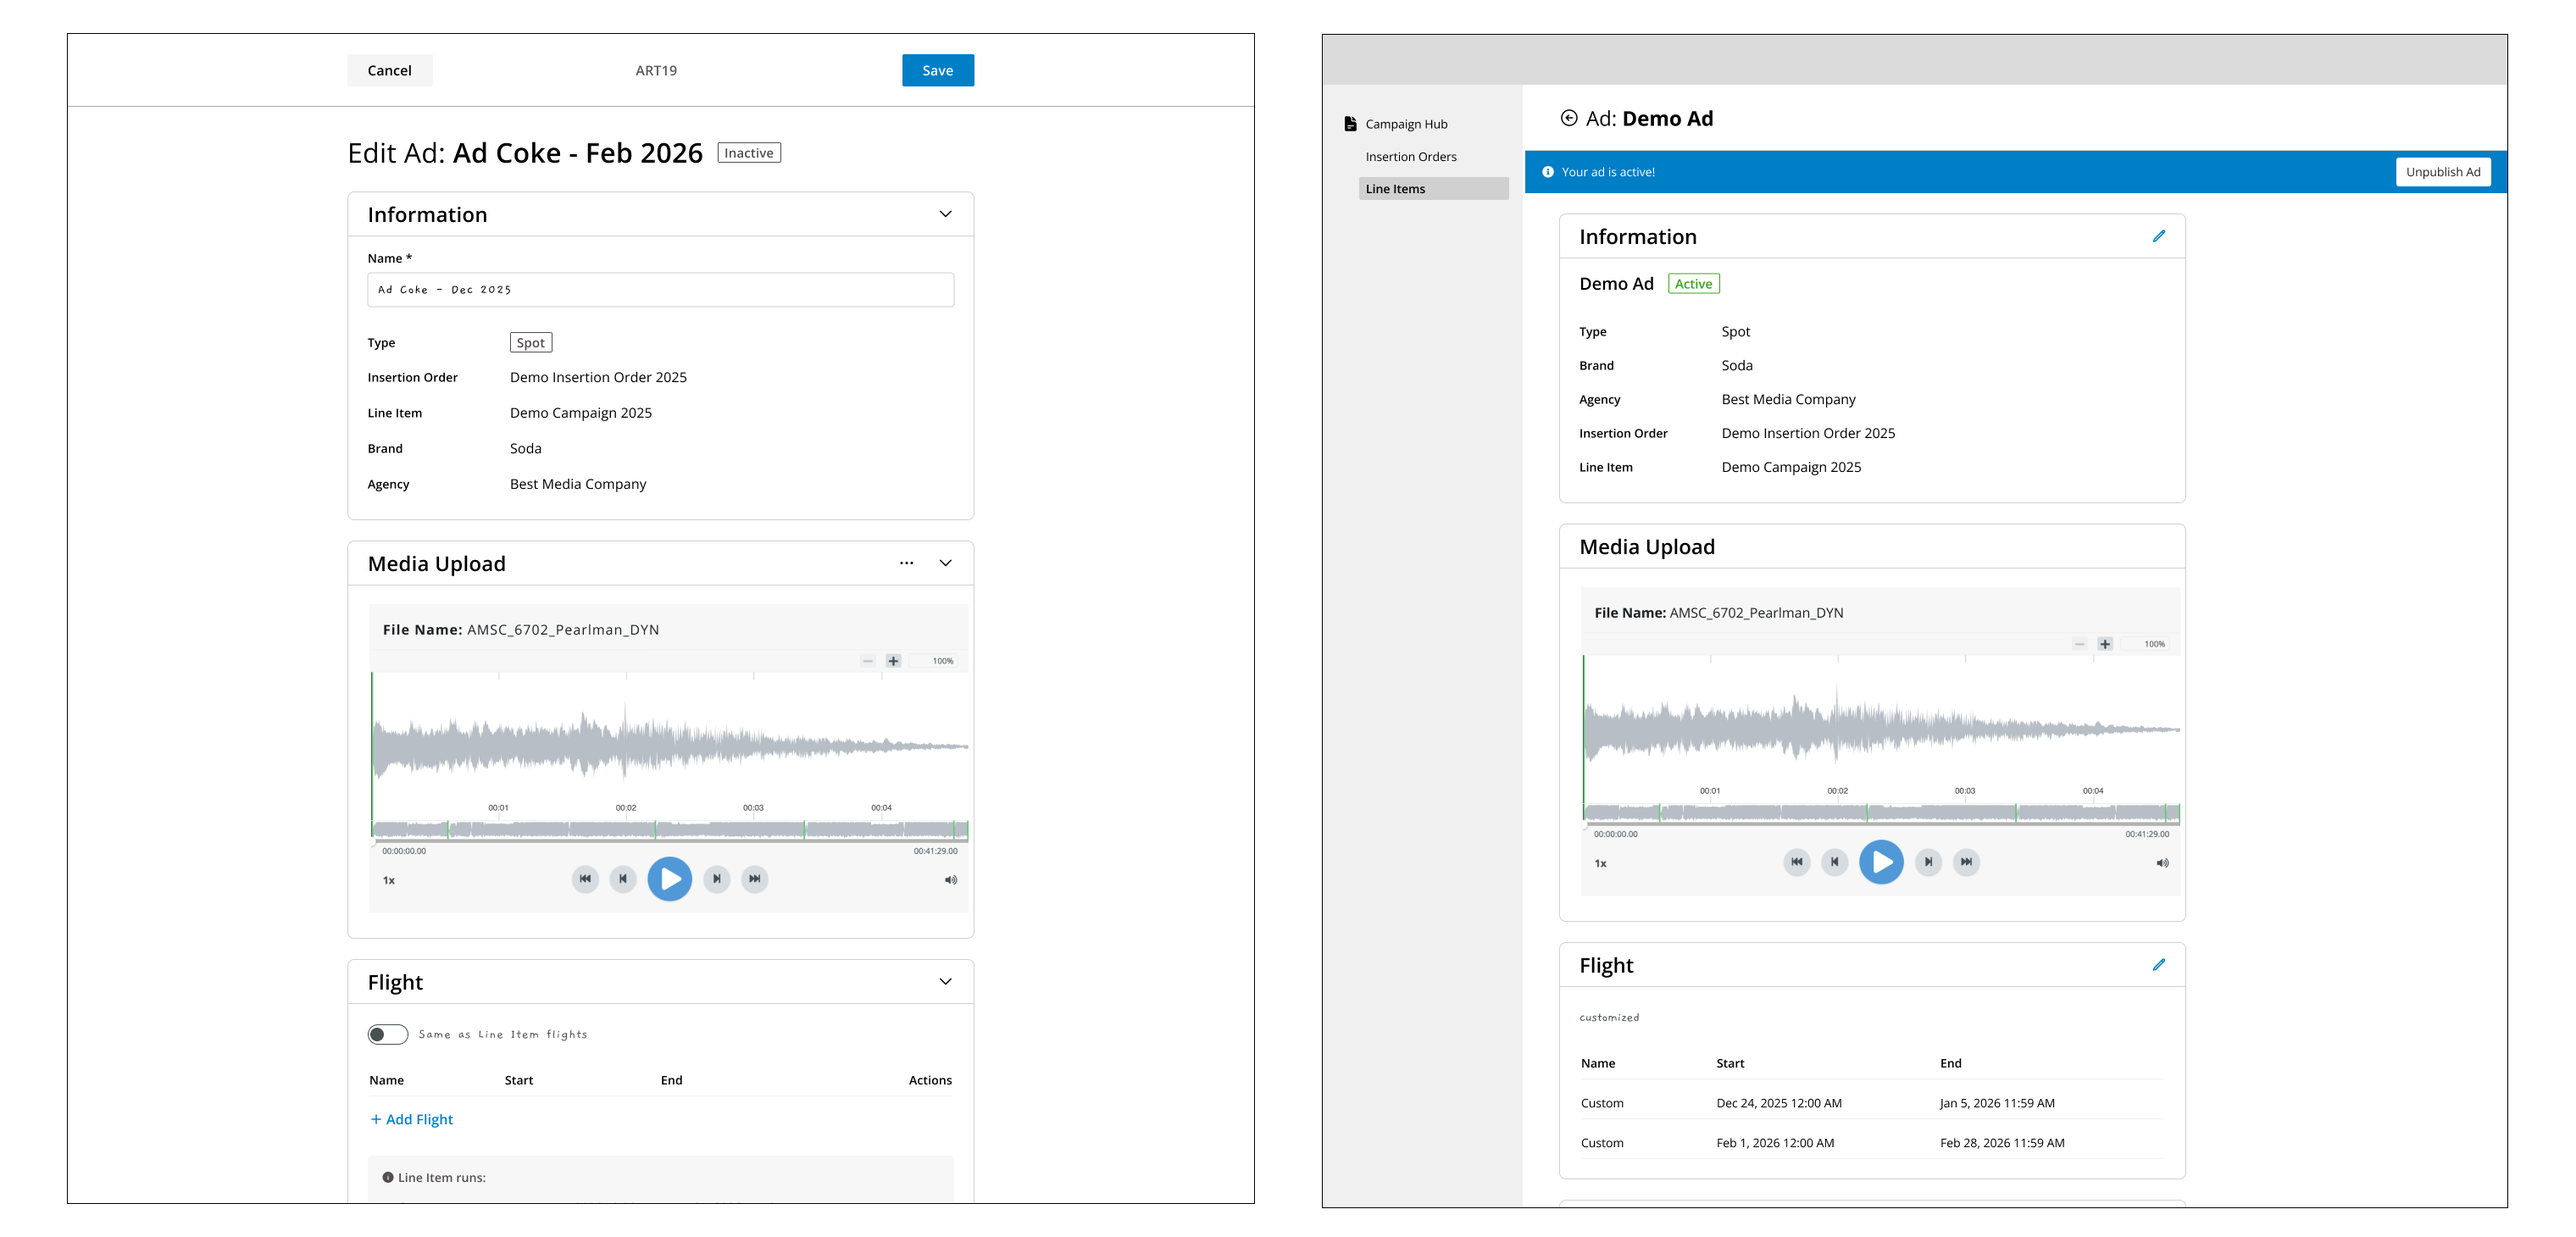
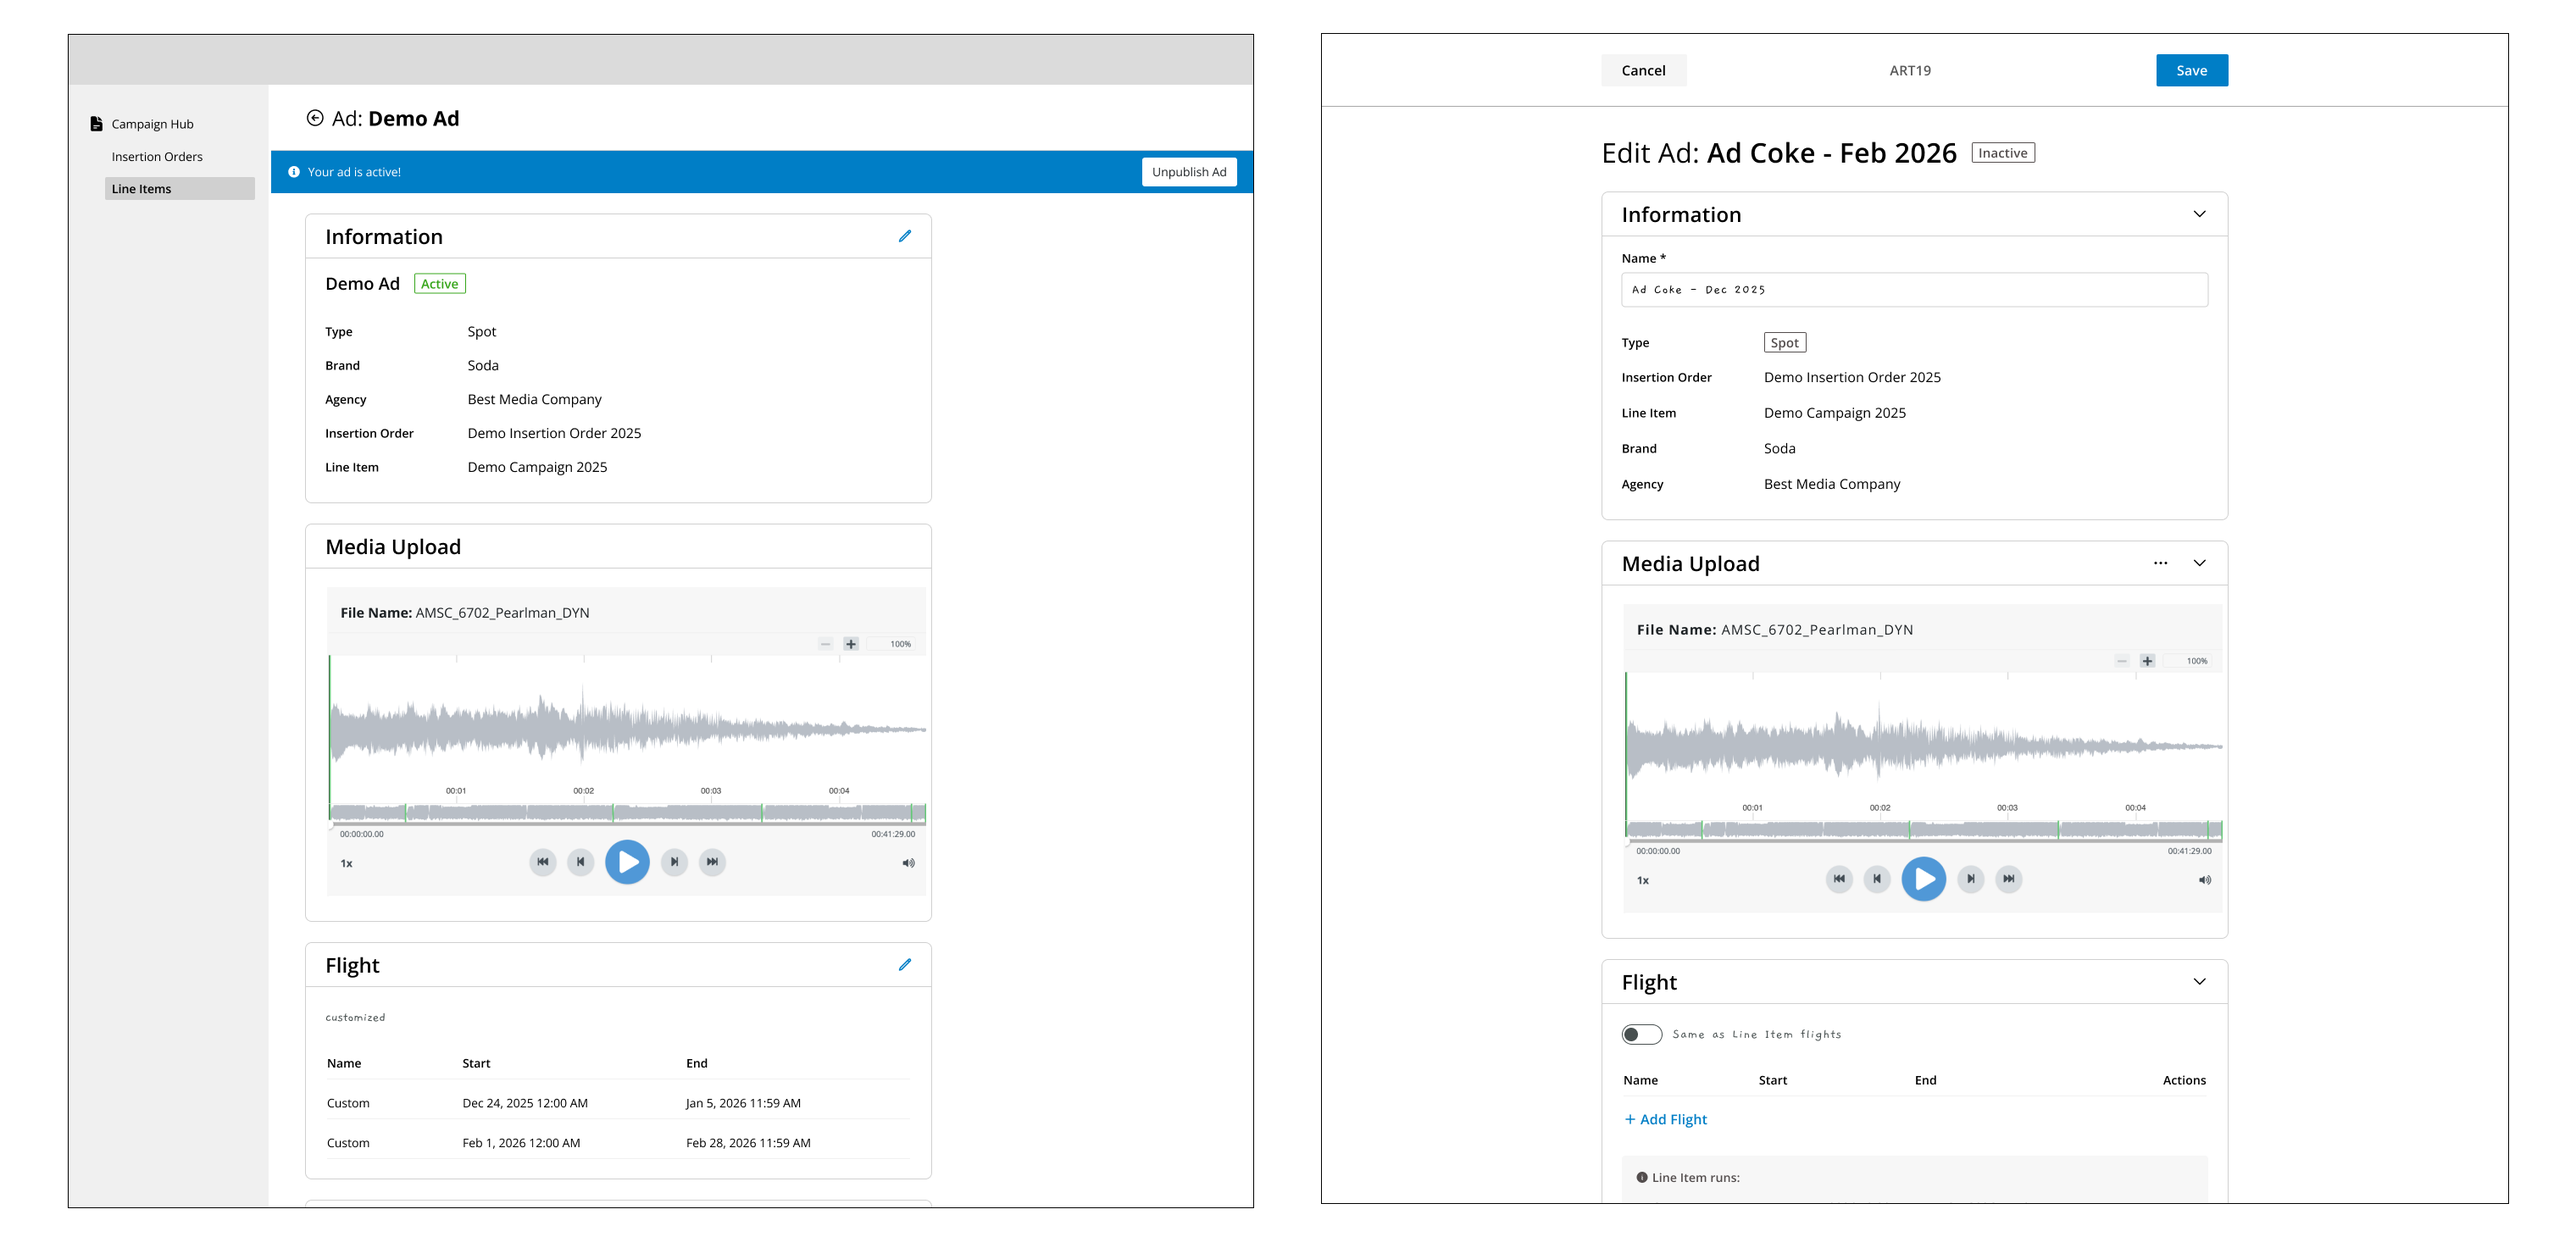
Refine One Page Creation section and prototype in Ads Control
- Update the two-view image and move the Classic UI caption to the left
  to match it.
- Rewrite the section result as three numbered points: engineering's
  estimate, the reusable pattern added to the design system, and the MVP
  approach.
- Replace the prototype's left roll summary with a Forecast card, with
  Ad and Line item metric options.
- Open the prototype on the Ads list by default; the Line item tab links
  to ?view=line-item.

diff --git a/app/projects/ads-control/prototype/page.tsx b/app/projects/ads-control/prototype/page.tsx
@@ -80,6 +80,7 @@ const ICON = {
   calendar: 'M19 4h-1V2h-2v2H8V2H6v2H5c-1.11 0-1.99.9-1.99 2L3 20c0 1.1.89 2 2 2h14c1.1 0 2-.9 2-2V6c0-1.1-.9-2-2-2zm0 16H5V10h14v10zM5 8V6h14v2H5z',
   target: 'M12 8c-2.21 0-4 1.79-4 4s1.79 4 4 4 4-1.79 4-4-1.79-4-4-4zm8.94 3A8.994 8.994 0 0 0 13 3.06V1h-2v2.06A8.994 8.994 0 0 0 3.06 11H1v2h2.06A8.994 8.994 0 0 0 11 20.94V23h2v-2.06A8.994 8.994 0 0 0 20.94 13H23v-2h-2.06zM12 19c-3.87 0-7-3.13-7-7s3.13-7 7-7 7 3.13 7 7-3.13 7-7 7z',
   sort: 'M3 18h6v-2H3v2zM3 6v2h18V6H3zm0 7h12v-2H3v2z',
+  info: 'M11 7h2v2h-2zm0 4h2v6h-2zm1-9C6.48 2 2 6.48 2 12s4.48 10 10 10 10-4.48 10-10S17.52 2 12 2zm0 18c-4.41 0-8-3.59-8-8s3.59-8 8-8 8 3.59 8 8-3.59 8-8 8z',
 };
 
 const Icon = ({ d, className = 'h-4 w-4' }: { d: string; className?: string }) => (
@@ -269,8 +270,8 @@ type Screen = 'line-item' | 'ads' | 'edit-ad' | 'new-ad';
 type LineItemTab = 'details' | 'targeting' | 'ads';
 
 export default function AdsControlPrototype() {
-  const [screen, setScreen] = useState<Screen>('line-item');
-  const [tab, setTab] = useState<LineItemTab>('details');
+  const [screen, setScreen] = useState<Screen>('ads');
+  const [tab, setTab] = useState<LineItemTab>('ads');
   const [ads, setAds] = useState<Ad[]>(INITIAL_ADS);
   const [editingId, setEditingId] = useState<string | null>(null);
   const [bulkEdit, setBulkEdit] = useState(false);
@@ -288,9 +289,9 @@ export default function AdsControlPrototype() {
   // The case study page picks the starting view with ?view=; the controls live outside this prototype.
   useEffect(() => {
     const view = new URLSearchParams(window.location.search).get('view');
-    if (view === 'ads') {
-      setScreen('ads');
-      setTab('ads');
+    if (view === 'line-item') {
+      setScreen('line-item');
+      setTab('details');
     } else if (view === 'ad') {
       setScreen('new-ad');
     }
@@ -620,8 +621,6 @@ export default function AdsControlPrototype() {
             title={`Edit Ad: ${editing.name}`}
             status={editing.status}
             initial={editing}
-            ads={ads}
-            currentId={editing.id}
             onCancel={backToAds}
             onSave={(next) => {
               setAds((prev) => prev.map((a) => (a.id === next.id ? next : a)));
@@ -645,7 +644,6 @@ export default function AdsControlPrototype() {
         {screen === 'new-ad' && (
           <AdForm
             title="New Ad"
-            ads={ads}
             onCancel={backToAds}
             onSave={(next) => {
               setAds((prev) => [...prev, next]);
@@ -704,8 +702,6 @@ function AdForm({
   onSave,
   onDeactivate,
   onDelete,
-  ads,
-  currentId,
 }: {
   title: string;
   status?: Status;
@@ -714,8 +710,6 @@ function AdForm({
   onSave: (ad: Ad) => void;
   onDeactivate?: () => void; // present only when editing an existing ad
   onDelete?: () => void;
-  ads: Ad[];
-  currentId?: string;
 }) {
   const [name, setName] = useState(initial.name);
   const [weight, setWeight] = useState(initial.weight);
@@ -782,9 +776,8 @@ function AdForm({
         </div>
       </div>
 
-      <div className="grid grid-cols-[200px_minmax(0,1fr)] items-start gap-8">
-        <AdPreview ads={ads} currentId={currentId} />
-      <div className="mx-auto flex w-full max-w-3xl flex-col gap-4">
+      <div className="grid grid-cols-[minmax(0,1fr)_280px] items-start gap-8">
+      <div className="flex w-full max-w-3xl flex-col gap-4">
         <div className="flex h-9 items-center gap-3">
           <h1 className="text-xl text-neutral-900">{title}</h1>
           {status && <StatusTag status={status} />}
@@ -893,46 +886,53 @@ function AdForm({
           </div>
         </Section>
       </div>
+      <ForecastCard />
       </div>
     </div>
   );
 }
 
-// Left rail of the ad form: every ad, grouped by the roll(s) it plays in.
-function AdPreview({ ads, currentId }: { ads: Ad[]; currentId?: string }) {
-  const groups: Location[] = ['Pre', 'Mid', 'Post'];
-  const chip: Record<Location, { label: string; className: string }> = {
-    Pre: { label: 'Pre-roll', className: 'bg-[#DCEBFF] text-[#1E4FA8]' },
-    Mid: { label: 'Mid-roll', className: 'bg-[#FADDF2] text-[#A0218A]' },
-    Post: { label: 'Post-roll', className: 'bg-[#FFE3BF] text-[#8A4B12]' },
-  };
+// Forecast panel beside the ad form, top-aligned with its title. Values stay empty until a line item has delivery data.
+function ForecastCard() {
+  const tabs = ['Impressions', 'Reach'] as const;
+  const [tab, setTab] = useState<(typeof tabs)[number]>('Impressions');
   return (
-    <aside className="sticky top-20 flex flex-col gap-6 self-start">
-      <h2 className="text-base font-semibold text-neutral-900">Ads preview</h2>
-      {groups.map((loc) => {
-        const items = ads.filter((a) => a.targets.some((t) => t.location === loc));
-        return (
-          <div key={loc} className="flex flex-col">
-            <div className="flex items-center gap-3 pb-2">
-              <span className={`rounded px-2 py-0.5 text-xs font-semibold ${chip[loc].className}`}>{chip[loc].label}</span>
-              <span className="h-px flex-1 bg-neutral-200" />
-              <span className="text-xs text-neutral-400">{items.length}</span>
-            </div>
-            {items.length === 0 && <p className="py-2 text-xs text-neutral-400">No ads</p>}
-            {items.map((a) => (
-              <div
-                key={a.id}
-                className={`flex items-center justify-between py-1.5 text-sm ${
-                  a.id === currentId ? 'font-semibold text-[#0B6BCB]' : a.status === 'Inactive' ? 'text-neutral-400' : 'text-neutral-800'
-                }`}
-              >
-                <span>{a.name}</span>
-                {a.status === 'Inactive' && <span className="text-[11px] text-neutral-400">Inactive</span>}
-              </div>
-            ))}
+    <aside className="sticky top-20 flex w-[280px] flex-col gap-4 self-start rounded-lg border border-neutral-300 bg-white p-5 shadow-lg">
+      <div className="flex items-center gap-2">
+        <h2 className="text-base font-semibold text-neutral-900">Forecast</h2>
+        <Icon d={ICON.info} className="h-4 w-4 text-neutral-600" />
+      </div>
+      <Select defaultValue="ad" className="w-full">
+        <option value="ad">Ad metrics</option>
+        <option value="line-item">Line item metrics</option>
+      </Select>
+      <Select defaultValue="cumulative" className="w-full">
+        <option value="cumulative">Cumulative</option>
+      </Select>
+      <div role="tablist" className="flex gap-6 border-b border-neutral-200">
+        {tabs.map((t) => (
+          <button
+            key={t}
+            role="tab"
+            aria-selected={tab === t}
+            type="button"
+            onClick={() => setTab(t)}
+            className={`-mb-px h-9 border-b-2 text-sm transition-colors ${
+              tab === t ? 'border-[#0B6BCB] font-semibold text-[#0B6BCB]' : 'border-transparent text-neutral-600 hover:text-neutral-900'
+            }`}
+          >
+            {t}
+          </button>
+        ))}
+      </div>
+      <dl className="flex flex-col gap-3 text-sm">
+        {['CPM', 'Available spend', 'Available impressions'].map((k) => (
+          <div key={k} className="flex h-6 items-center justify-between gap-4">
+            <dt className="text-neutral-800">{k}</dt>
+            <dd className="font-semibold text-neutral-900">—</dd>
           </div>
-        );
-      })}
+        ))}
+      </dl>
     </aside>
   );
 }

diff --git a/app/projects/ads-control/page.tsx b/app/projects/ads-control/page.tsx
@@ -376,7 +376,7 @@ function TreeNode({ kind, name, children }: { kind: keyof typeof TREE_TAGS; name
 }
 
 const PROTOTYPE_VIEWS = [
-  { id: "line-item", label: "Line item", query: "" },
+  { id: "line-item", label: "Line item", query: "?view=line-item" },
   { id: "ads", label: "Ads list", query: "?view=ads" },
   { id: "ad", label: "Ad form", query: "?view=ad" },
 ] as const;
@@ -880,10 +880,10 @@ export default function AdsControlCaseStudy() {
               style={{ gridTemplateColumns: "repeat(auto-fit, minmax(min(100%, 300px), 1fr))" }}
             >
               <span>
-                <strong className="text-[oklch(0.5_0.24_295)]">One page</strong> — edit everything, then Save once.
+                <strong className="text-[oklch(0.5_0.2_262)]">Classic UI</strong> — edit card by card, publish separately.
               </span>
               <span>
-                <strong className="text-[oklch(0.5_0.2_262)]">Classic UI</strong> — edit card by card, publish separately.
+                <strong className="text-[oklch(0.5_0.24_295)]">One page</strong> — edit everything, then Save once.
               </span>
             </figcaption>
           </figure>
@@ -946,11 +946,29 @@ export default function AdsControlCaseStudy() {
             className={`${SANS} m-0 flex flex-col gap-3 rounded-2xl bg-[oklch(0.965_0.018_285)] px-8 py-7`}
           >
             <span className={`${MONO} text-xs uppercase tracking-[0.08em] text-[oklch(0.5_0.24_295)]`}>Result</span>
-            <p className="text-[clamp(16px,1.6vw,18px)] font-normal leading-[1.4] tracking-[-0.01em] text-balance text-[oklch(0.42_0.24_290)]">
-              Seeing both flows and the user experience in scenarios like saving, editing, managing errors, and leaving
-              without saving, engineering gave a more reasonable implementation estimate and agreed to build One Page
-              Creation.
-            </p>
+            <ul className="flex flex-col gap-3 text-base leading-[1.6] text-[oklch(0.42_0.24_290)]">
+              <li className="flex gap-3">
+                <span className={`${MONO} text-xs text-[oklch(0.5_0.24_295)]`}>01</span>
+                <span>
+                  Seeing both flows and the user experience in scenarios like saving, editing, managing errors, and
+                  leaving without saving, engineering gave a more reasonable implementation estimate and agreed to build
+                  One Page Creation for ads.
+                </span>
+              </li>
+              <li className="flex gap-3">
+                <span className={`${MONO} text-xs text-[oklch(0.5_0.24_295)]`}>02</span>
+                <span>
+                  I defined the behavior and specs of One Page Creation as a reusable pattern, and added it to the design
+                  system for future projects.
+                </span>
+              </li>
+              <li className="flex gap-3">
+                <span className={`${MONO} text-xs text-[oklch(0.5_0.24_295)]`}>03</span>
+                <span>
+                  I convinced engineering to build this reusable UI as an MVP, rather than all at once.
+                </span>
+              </li>
+            </ul>
           </figure>
         </section>
 
